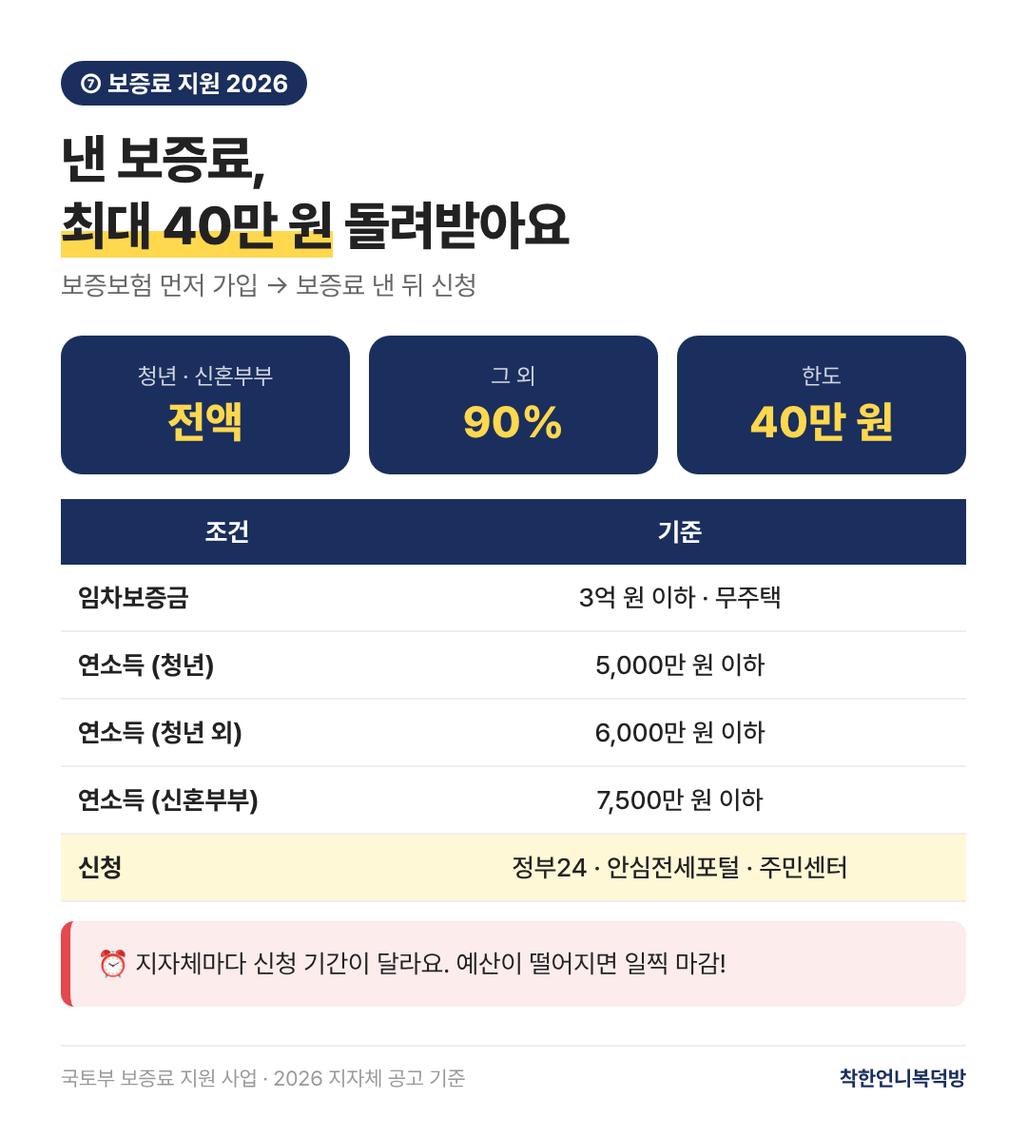
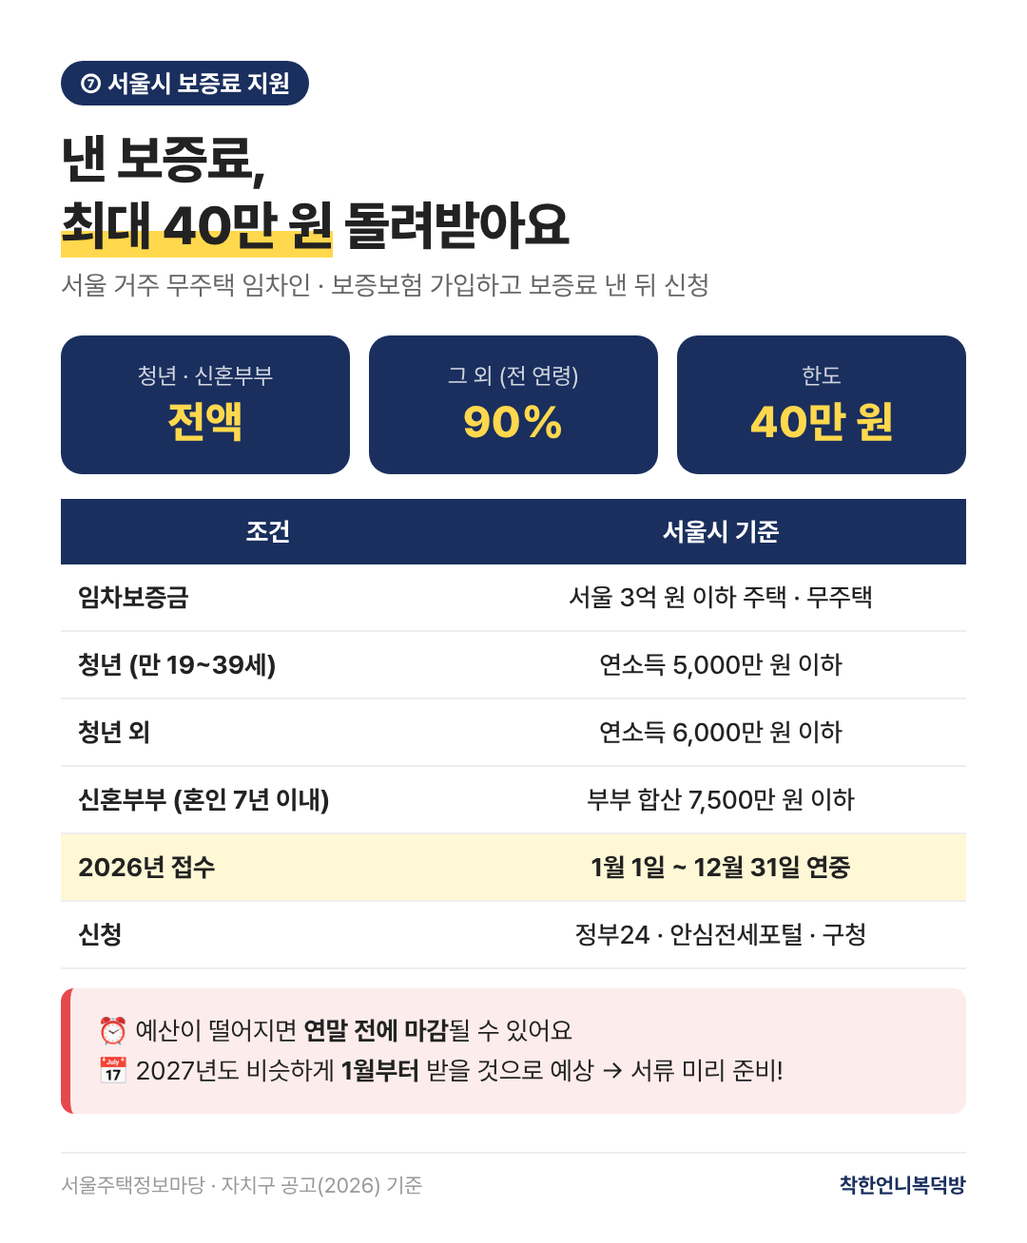
보증료 지원 서울시 기준·2027 예상 + 주택가격 순서 수도권 표시
Claude-Session: https://claude.ai/code/session_01TVq9M4GpnT2XRseWGn9WC1

diff --git a/naver/paste/2026-11-jeonse-check-8.html b/naver/paste/2026-11-jeonse-check-8.html
@@ -54,10 +54,11 @@ body{margin:0;background:#f4f4f2;font-family:-apple-system,"Apple SD Gothic Neo"
 <p style="text-align:center;font-size:16px;line-height:1.8;margin:0;font-family:'나눔바른고딕',NanumBarunGothic,'Apple SD Gothic Neo',sans-serif;">&nbsp;</p><table style="width:100%;border-collapse:collapse;margin:24px 0 12px;"><tr><td style="border-top:1px solid #e5e5e5;border-right:1px solid #e5e5e5;border-bottom:1px solid #e5e5e5;border-left:6px solid #555555;padding:10px 14px;font-size:19px;font-family:'나눔바른고딕',NanumBarunGothic,'Apple SD Gothic Neo',sans-serif;"><b>7. 보증보험 + 보증료 지원 (2026년에도 있어요)</b></td></tr></table>
 <p style="text-align:center;margin:12px 0 4px"><img src="img/jeonse-check/05-보증보험-가입조건.png" alt="전세보증금 반환보증 가입 조건 4가지 + 서류" style="max-width:100%;border:1px solid #ddd"></p><p style="text-align:center;font-size:13px;line-height:1.8;margin:0;font-family:'나눔바른고딕',NanumBarunGothic,'Apple SD Gothic Neo',sans-serif;color:#999999;">▲ 전세보증금 반환보증</p><p style="text-align:center;font-size:13px;line-height:1.8;margin:0;font-family:'나눔바른고딕',NanumBarunGothic,'Apple SD Gothic Neo',sans-serif;color:#999999;">가입 조건 4가지 + 서류</p><p style="text-align:center;font-size:16px;line-height:1.8;margin:0;font-family:'나눔바른고딕',NanumBarunGothic,'Apple SD Gothic Neo',sans-serif;">&nbsp;</p>
 <p style="text-align:center;font-size:16px;line-height:1.8;margin:0;font-family:'나눔바른고딕',NanumBarunGothic,'Apple SD Gothic Neo',sans-serif;">보증보험에 가입하고</p><p style="text-align:center;font-size:16px;line-height:1.8;margin:0;font-family:'나눔바른고딕',NanumBarunGothic,'Apple SD Gothic Neo',sans-serif;">보증료를 냈다면,</p><p style="text-align:center;font-size:16px;line-height:1.8;margin:0;font-family:'나눔바른고딕',NanumBarunGothic,'Apple SD Gothic Neo',sans-serif;"><b>보증료를 돌려받는</b></p><p style="text-align:center;font-size:16px;line-height:1.8;margin:0;font-family:'나눔바른고딕',NanumBarunGothic,'Apple SD Gothic Neo',sans-serif;"><b>지원</b>도 꼭 챙기세요.</p><p style="text-align:center;font-size:16px;line-height:1.8;margin:0;font-family:'나눔바른고딕',NanumBarunGothic,'Apple SD Gothic Neo',sans-serif;">&nbsp;</p>
-<p style="text-align:center;margin:12px 0 4px"><img src="img/jeonse-check/06-보증료지원-2026.png" alt="전세보증금반환보증 보증료 지원 2026 요약" style="max-width:100%;border:1px solid #ddd"></p><p style="text-align:center;font-size:13px;line-height:1.8;margin:0;font-family:'나눔바른고딕',NanumBarunGothic,'Apple SD Gothic Neo',sans-serif;color:#999999;">▲ 전세보증금반환보증 보증료 지원 2026 요약</p><p style="text-align:center;font-size:16px;line-height:1.8;margin:0;font-family:'나눔바른고딕',NanumBarunGothic,'Apple SD Gothic Neo',sans-serif;">&nbsp;</p>
-<p style="text-align:center;font-size:15px;line-height:1.8;margin:0;font-family:'나눔바른고딕',NanumBarunGothic,'Apple SD Gothic Neo',sans-serif;">지자체마다 신청 기간과</p><p style="text-align:center;font-size:15px;line-height:1.8;margin:0;font-family:'나눔바른고딕',NanumBarunGothic,'Apple SD Gothic Neo',sans-serif;">청년 나이 기준이 조금씩 달라요.</p><p style="text-align:center;font-size:16px;line-height:1.8;margin:0;font-family:'나눔바른고딕',NanumBarunGothic,'Apple SD Gothic Neo',sans-serif;">&nbsp;</p><p style="text-align:center;font-size:15px;line-height:1.8;margin:0;font-family:'나눔바른고딕',NanumBarunGothic,'Apple SD Gothic Neo',sans-serif;"><b>예산이 떨어지면 일찍 마감</b>되니</p><p style="text-align:center;font-size:15px;line-height:1.8;margin:0;font-family:'나눔바른고딕',NanumBarunGothic,'Apple SD Gothic Neo',sans-serif;">가입하자마자 신청하세요.</p><p style="text-align:center;font-size:16px;line-height:1.8;margin:0;font-family:'나눔바른고딕',NanumBarunGothic,'Apple SD Gothic Neo',sans-serif;">&nbsp;</p>
+<p style="text-align:center;margin:12px 0 4px"><img src="img/jeonse-check/06-보증료지원-2026.png" alt="서울시 전세보증금반환보증 보증료 지원 2026 요약" style="max-width:100%;border:1px solid #ddd"></p><p style="text-align:center;font-size:13px;line-height:1.8;margin:0;font-family:'나눔바른고딕',NanumBarunGothic,'Apple SD Gothic Neo',sans-serif;color:#999999;">▲ 서울시 전세보증금반환보증</p><p style="text-align:center;font-size:13px;line-height:1.8;margin:0;font-family:'나눔바른고딕',NanumBarunGothic,'Apple SD Gothic Neo',sans-serif;color:#999999;">보증료 지원 2026 요약</p><p style="text-align:center;font-size:16px;line-height:1.8;margin:0;font-family:'나눔바른고딕',NanumBarunGothic,'Apple SD Gothic Neo',sans-serif;">&nbsp;</p>
+<p style="text-align:center;font-size:16px;line-height:1.8;margin:0;font-family:'나눔바른고딕',NanumBarunGothic,'Apple SD Gothic Neo',sans-serif;">서울시는 2026년에 <b>1월 1일부터</b></p><p style="text-align:center;font-size:16px;line-height:1.8;margin:0;font-family:'나눔바른고딕',NanumBarunGothic,'Apple SD Gothic Neo',sans-serif;"><b>12월 31일까지 연중</b> 접수했어요.</p><p style="text-align:center;font-size:16px;line-height:1.8;margin:0;font-family:'나눔바른고딕',NanumBarunGothic,'Apple SD Gothic Neo',sans-serif;">&nbsp;</p><p style="text-align:center;font-size:16px;line-height:1.8;margin:0;font-family:'나눔바른고딕',NanumBarunGothic,'Apple SD Gothic Neo',sans-serif;">다만 <b>예산이 떨어지면</b></p><p style="text-align:center;font-size:16px;line-height:1.8;margin:0;font-family:'나눔바른고딕',NanumBarunGothic,'Apple SD Gothic Neo',sans-serif;"><b>일찍 마감</b>될 수 있어요.</p><p style="text-align:center;font-size:16px;line-height:1.8;margin:0;font-family:'나눔바른고딕',NanumBarunGothic,'Apple SD Gothic Neo',sans-serif;">&nbsp;</p><p style="text-align:center;font-size:16px;line-height:1.8;margin:0;font-family:'나눔바른고딕',NanumBarunGothic,'Apple SD Gothic Neo',sans-serif;">2024년 3월부터</p><p style="text-align:center;font-size:16px;line-height:1.8;margin:0;font-family:'나눔바른고딕',NanumBarunGothic,'Apple SD Gothic Neo',sans-serif;">계속 이어 온 사업이라</p><p style="text-align:center;font-size:16px;line-height:1.8;margin:0;font-family:'나눔바른고딕',NanumBarunGothic,'Apple SD Gothic Neo',sans-serif;"><b>2027년도 비슷하게 1월부터</b></p><p style="text-align:center;font-size:16px;line-height:1.8;margin:0;font-family:'나눔바른고딕',NanumBarunGothic,'Apple SD Gothic Neo',sans-serif;">받을 것으로 예상돼요.</p><p style="text-align:center;font-size:16px;line-height:1.8;margin:0;font-family:'나눔바른고딕',NanumBarunGothic,'Apple SD Gothic Neo',sans-serif;">&nbsp;</p><p style="text-align:center;font-size:16px;line-height:1.8;margin:0;font-family:'나눔바른고딕',NanumBarunGothic,'Apple SD Gothic Neo',sans-serif;">보증보험 가입하면</p><p style="text-align:center;font-size:16px;line-height:1.8;margin:0;font-family:'나눔바른고딕',NanumBarunGothic,'Apple SD Gothic Neo',sans-serif;">보증서·보증료 영수증을</p><p style="text-align:center;font-size:16px;line-height:1.8;margin:0;font-family:'나눔바른고딕',NanumBarunGothic,'Apple SD Gothic Neo',sans-serif;">바로 챙겨 두세요.</p><p style="text-align:center;font-size:16px;line-height:1.8;margin:0;font-family:'나눔바른고딕',NanumBarunGothic,'Apple SD Gothic Neo',sans-serif;">&nbsp;</p>
+<p style="text-align:center;font-size:15px;line-height:1.8;margin:0;font-family:'나눔바른고딕',NanumBarunGothic,'Apple SD Gothic Neo',sans-serif;"><b><span style="color:#7b4fd6">✔</span></b> 서울 거주 무주택 ·</p><p style="text-align:center;font-size:15px;line-height:1.8;margin:0;font-family:'나눔바른고딕',NanumBarunGothic,'Apple SD Gothic Neo',sans-serif;">보증금 3억 이하 · 청년 만</p><p style="text-align:center;font-size:15px;line-height:1.8;margin:0;font-family:'나눔바른고딕',NanumBarunGothic,'Apple SD Gothic Neo',sans-serif;">19~39세 · 신혼부부 혼인 7년 이내</p><p style="text-align:center;font-size:16px;line-height:1.8;margin:0;font-family:'나눔바른고딕',NanumBarunGothic,'Apple SD Gothic Neo',sans-serif;">&nbsp;</p><p style="text-align:center;font-size:15px;line-height:1.8;margin:0;font-family:'나눔바른고딕',NanumBarunGothic,'Apple SD Gothic Neo',sans-serif;"><b><span style="color:#7b4fd6">✔</span></b> 한도 40만 원은</p><p style="text-align:center;font-size:15px;line-height:1.8;margin:0;font-family:'나눔바른고딕',NanumBarunGothic,'Apple SD Gothic Neo',sans-serif;">2025.3.31 이후 보증</p><p style="text-align:center;font-size:15px;line-height:1.8;margin:0;font-family:'나눔바른고딕',NanumBarunGothic,'Apple SD Gothic Neo',sans-serif;">가입자부터 (그 전 가입자는 최대 30만 원)</p><p style="text-align:center;font-size:16px;line-height:1.8;margin:0;font-family:'나눔바른고딕',NanumBarunGothic,'Apple SD Gothic Neo',sans-serif;">&nbsp;</p><p style="text-align:center;font-size:15px;line-height:1.8;margin:0;font-family:'나눔바른고딕',NanumBarunGothic,'Apple SD Gothic Neo',sans-serif;"><b><span style="color:#7b4fd6">✔</span></b> 자세한 기준:</p><p style="text-align:center;font-size:15px;line-height:1.8;margin:0;font-family:'나눔바른고딕',NanumBarunGothic,'Apple SD Gothic Neo',sans-serif;">서울주택정보마당 · 다산콜센터 120</p><p style="text-align:center;font-size:16px;line-height:1.8;margin:0;font-family:'나눔바른고딕',NanumBarunGothic,'Apple SD Gothic Neo',sans-serif;">&nbsp;</p>
 <p style="text-align:center;font-size:16px;line-height:1.8;margin:0;font-family:'나눔바른고딕',NanumBarunGothic,'Apple SD Gothic Neo',sans-serif;">보증 가입할 때</p><p style="text-align:center;font-size:16px;line-height:1.8;margin:0;font-family:'나눔바른고딕',NanumBarunGothic,'Apple SD Gothic Neo',sans-serif;">집값은 아래 순서대로 정해져요.</p><p style="text-align:center;font-size:16px;line-height:1.8;margin:0;font-family:'나눔바른고딕',NanumBarunGothic,'Apple SD Gothic Neo',sans-serif;">&nbsp;</p><p style="text-align:center;font-size:16px;line-height:1.8;margin:0;font-family:'나눔바른고딕',NanumBarunGothic,'Apple SD Gothic Neo',sans-serif;">빌라는 <b>공시가격</b>이 먼저라,</p><p style="text-align:center;font-size:16px;line-height:1.8;margin:0;font-family:'나눔바른고딕',NanumBarunGothic,'Apple SD Gothic Neo',sans-serif;">공시가격부터 확인해 두면 좋아요.</p><p style="text-align:center;font-size:16px;line-height:1.8;margin:0;font-family:'나눔바른고딕',NanumBarunGothic,'Apple SD Gothic Neo',sans-serif;">&nbsp;</p>
-<p style="text-align:center;margin:12px 0 4px"><img src="img/jeonse-check/07-주택가격-적용순서.png" alt="보증 가입 시 주택가격 적용 순서 (안심전세 앱 기준)" style="max-width:100%;border:1px solid #ddd"></p><p style="text-align:center;font-size:13px;line-height:1.8;margin:0;font-family:'나눔바른고딕',NanumBarunGothic,'Apple SD Gothic Neo',sans-serif;color:#999999;">▲ 보증 가입 시 주택가격</p><p style="text-align:center;font-size:13px;line-height:1.8;margin:0;font-family:'나눔바른고딕',NanumBarunGothic,'Apple SD Gothic Neo',sans-serif;color:#999999;">적용 순서 (안심전세 앱 기준)</p><p style="text-align:center;font-size:16px;line-height:1.8;margin:0;font-family:'나눔바른고딕',NanumBarunGothic,'Apple SD Gothic Neo',sans-serif;">&nbsp;</p>
+<p style="text-align:center;margin:12px 0 4px"><img src="img/jeonse-check/07-주택가격-적용순서.png" alt="보증 가입 시 주택가격 적용 순서 (안심전세 앱 수도권 기준)" style="max-width:100%;border:1px solid #ddd"></p><p style="text-align:center;font-size:13px;line-height:1.8;margin:0;font-family:'나눔바른고딕',NanumBarunGothic,'Apple SD Gothic Neo',sans-serif;color:#999999;">▲ 보증 가입 시 주택가격 적용</p><p style="text-align:center;font-size:13px;line-height:1.8;margin:0;font-family:'나눔바른고딕',NanumBarunGothic,'Apple SD Gothic Neo',sans-serif;color:#999999;">순서 (안심전세 앱 수도권 기준)</p><p style="text-align:center;font-size:16px;line-height:1.8;margin:0;font-family:'나눔바른고딕',NanumBarunGothic,'Apple SD Gothic Neo',sans-serif;">&nbsp;</p>
 <p style="text-align:center;margin:12px 0 4px"><img src="img/jeonse-check/08-최우선변제금.png" alt="최우선변제금 — 경매가 나도 먼저 받는 금액" style="max-width:100%;border:1px solid #ddd"></p><p style="text-align:center;font-size:13px;line-height:1.8;margin:0;font-family:'나눔바른고딕',NanumBarunGothic,'Apple SD Gothic Neo',sans-serif;color:#999999;">▲ 최우선변제금 — 경매가 나도 먼저 받는 금액</p><p style="text-align:center;font-size:16px;line-height:1.8;margin:0;font-family:'나눔바른고딕',NanumBarunGothic,'Apple SD Gothic Neo',sans-serif;">&nbsp;</p>
 <p style="text-align:center;font-size:16px;line-height:1.8;margin:0;font-family:'나눔바른고딕',NanumBarunGothic,'Apple SD Gothic Neo',sans-serif;">&nbsp;</p><table style="width:100%;border-collapse:collapse;margin:24px 0 12px;"><tr><td style="border-top:1px solid #e5e5e5;border-right:1px solid #e5e5e5;border-bottom:1px solid #e5e5e5;border-left:6px solid #555555;padding:10px 14px;font-size:19px;font-family:'나눔바른고딕',NanumBarunGothic,'Apple SD Gothic Neo',sans-serif;"><b>8. 입주 날, 짐 넣기 전에 빈집 사진</b></td></tr></table>
 <p style="text-align:center;font-size:16px;line-height:1.8;margin:0;font-family:'나눔바른고딕',NanumBarunGothic,'Apple SD Gothic Neo',sans-serif;">벽·바닥·창틀·욕실을</p><p style="text-align:center;font-size:16px;line-height:1.8;margin:0;font-family:'나눔바른고딕',NanumBarunGothic,'Apple SD Gothic Neo',sans-serif;"><b>날짜 나오게</b> 찍어 두세요.</p><p style="text-align:center;font-size:16px;line-height:1.8;margin:0;font-family:'나눔바른고딕',NanumBarunGothic,'Apple SD Gothic Neo',sans-serif;">&nbsp;</p><p style="text-align:center;font-size:16px;line-height:1.8;margin:0;font-family:'나눔바른고딕',NanumBarunGothic,'Apple SD Gothic Neo',sans-serif;">나갈 때 원상복구 다툼이</p><p style="text-align:center;font-size:16px;line-height:1.8;margin:0;font-family:'나눔바른고딕',NanumBarunGothic,'Apple SD Gothic Neo',sans-serif;">생기면 이게 증거예요.</p><p style="text-align:center;font-size:16px;line-height:1.8;margin:0;font-family:'나눔바른고딕',NanumBarunGothic,'Apple SD Gothic Neo',sans-serif;">&nbsp;</p>
@@ -76,7 +77,7 @@ body{margin:0;background:#f4f4f2;font-family:-apple-system,"Apple SD Gothic Neo"
 <li>⑤ 맨 아래 법정 표시는 「내 템플릿」에 저장해 둔 서명과 같아요 — 템플릿을 썼다면 이 부분은 지워도 돼요</li>
 </ul></div>
 <div class="card"><h3>인용구로 바꿀 문장</h3><ul><li><span class="qk">인용구 · 기본</span> 한 줄 요약 시세 → 집주인 조회 → 등기 알림 → 신고·확정일자 → 밀린 세금 → 평일 전입 → 보증보험 → 빈집 사진 <button class="mini" data-t="한 줄 요약 시세 → 집주인 조회 → 등기 알림 → 신고·확정일자 → 밀린 세금 → 평일 전입 → 보증보험 → 빈집 사진">문장 복사</button></li></ul></div>
-<div class="card"><h3>이미지 내려받기 (직접 업로드)</h3><ul><li><a href="img/jeonse-check/00-한눈에-8가지.png" download>전세 계약할 때 그냥 넘기기 쉬운 8가지 한눈에 보기</a></li><li><a href="img/jeonse-check/01-시세조회-따라하기.png" download>안심전세 앱 시세조회&amp;위험성진단 따라 하기</a></li><li><a href="img/jeonse-check/02-위험성진단-읽는법.png" download>위험성 진단 읽는 법 (숫자는 예시)</a></li><li><a href="img/jeonse-check/03-집주인조회.png" download>안심임대인 조회 — 동의 불필요 vs 동의 필요</a></li><li><a href="img/jeonse-check/04-등기변동알림.png" download>등기 변동 알림 — 안심전세 앱 vs 인터넷등기소</a></li><li><a href="img/jeonse-check/05-보증보험-가입조건.png" download>전세보증금 반환보증 가입 조건 4가지 + 서류</a></li><li><a href="img/jeonse-check/06-보증료지원-2026.png" download>전세보증금반환보증 보증료 지원 2026 요약</a></li><li><a href="img/jeonse-check/07-주택가격-적용순서.png" download>보증 가입 시 주택가격 적용 순서 (안심전세 앱 기준)</a></li><li><a href="img/jeonse-check/08-최우선변제금.png" download>최우선변제금 — 경매가 나도 먼저 받는 금액</a></li></ul></div>
+<div class="card"><h3>이미지 내려받기 (직접 업로드)</h3><ul><li><a href="img/jeonse-check/00-한눈에-8가지.png" download>전세 계약할 때 그냥 넘기기 쉬운 8가지 한눈에 보기</a></li><li><a href="img/jeonse-check/01-시세조회-따라하기.png" download>안심전세 앱 시세조회&amp;위험성진단 따라 하기</a></li><li><a href="img/jeonse-check/02-위험성진단-읽는법.png" download>위험성 진단 읽는 법 (숫자는 예시)</a></li><li><a href="img/jeonse-check/03-집주인조회.png" download>안심임대인 조회 — 동의 불필요 vs 동의 필요</a></li><li><a href="img/jeonse-check/04-등기변동알림.png" download>등기 변동 알림 — 안심전세 앱 vs 인터넷등기소</a></li><li><a href="img/jeonse-check/05-보증보험-가입조건.png" download>전세보증금 반환보증 가입 조건 4가지 + 서류</a></li><li><a href="img/jeonse-check/06-보증료지원-2026.png" download>서울시 전세보증금반환보증 보증료 지원 2026 요약</a></li><li><a href="img/jeonse-check/07-주택가격-적용순서.png" download>보증 가입 시 주택가격 적용 순서 (안심전세 앱 수도권 기준)</a></li><li><a href="img/jeonse-check/08-최우선변제금.png" download>최우선변제금 — 경매가 나도 먼저 받는 금액</a></li></ul></div>
 <div class="card"><h3>발행 정보</h3><ul><li><b>제목(BEST)</b>: 전세 계약할 때 99%가 그냥 넘기는 것 8가지｜안심전세 앱 따라 하기 (집주인 조회·보증료 지원 2026)</li><li><b>제목(대안)</b>: 전세 계약 전 체크리스트 2026｜등기부에 안 나오는 집주인 세금·보증사고 확인하는 법</li><li><b>태그</b>: 전세계약체크리스트, 안심전세앱, 임대인조회, 안심임대인조회, 미납국세열람, 전세보증보험, 보증료지원, 전월세신고, 확정일자, 최우선변제금, 신촌부동산, 이대부동산, 신촌공인중개사, 서대문부동산, 착한언니복덕방</li><li><b>썸네일</b>: 00-한눈에-8가지.png 또는 「전세 계약할 때 99%가 그냥 넘기는 것」</li><li><b>연계</b>: 인스타 릴스 g5 「전세 계약할 때 99%가 그냥 넘기는 것」 게시 후 1~2일 안에 발행 · 노션 자료와 같은 내용</li></ul></div>
 <div class="card" style="font-size:12px;color:#777">출처: 안심전세 앱(HUG) 이용 안내 화면(2026.11 캡처) · 국세청 홈택스 미납국세 열람 안내 · 정부24 전세보증금반환보증 보증료 지원 · 주택임대차보호법 제3조·시행령 제10·11조 · 작성 규칙 MASTER v1.2</div>
 </div></div>

diff --git a/instagram/reels/inserts-2026-11-24/photos/hug/info/make.html b/instagram/reels/inserts-2026-11-24/photos/hug/info/make.html
@@ -155,31 +155,32 @@ tr.hl td{background:#fff8d6}
 
 <!-- 6 보증료 지원 -->
 <div class="card" id="i6">
-<span class="tag">⑦ 보증료 지원 2026</span>
+<span class="tag">⑦ 서울시 보증료 지원</span>
 <h1>낸 보증료,<br><em>최대 40만 원</em> 돌려받아요</h1>
-<p class="sub">보증보험 먼저 가입 → 보증료 낸 뒤 신청</p>
+<p class="sub">서울 거주 무주택 임차인 · 보증보험 가입하고 보증료 낸 뒤 신청</p>
 <div class="big">
 <div class="bx"><div class="k">청년 · 신혼부부</div><div class="v">전액</div></div>
-<div class="bx"><div class="k">그 외</div><div class="v">90%</div></div>
+<div class="bx"><div class="k">그 외 (전 연령)</div><div class="v">90%</div></div>
 <div class="bx"><div class="k">한도</div><div class="v">40만 원</div></div>
 </div>
 <table>
-<tr><th>조건</th><th>기준</th></tr>
-<tr><td>임차보증금</td><td>3억 원 이하 · 무주택</td></tr>
-<tr><td>연소득 (청년)</td><td>5,000만 원 이하</td></tr>
-<tr><td>연소득 (청년 외)</td><td>6,000만 원 이하</td></tr>
-<tr><td>연소득 (신혼부부)</td><td>7,500만 원 이하</td></tr>
-<tr class="hl"><td>신청</td><td>정부24 · 안심전세포털 · 주민센터</td></tr>
+<tr><th>조건</th><th>서울시 기준</th></tr>
+<tr><td>임차보증금</td><td>서울 3억 원 이하 주택 · 무주택</td></tr>
+<tr><td>청년 (만 19~39세)</td><td>연소득 5,000만 원 이하</td></tr>
+<tr><td>청년 외</td><td>연소득 6,000만 원 이하</td></tr>
+<tr><td>신혼부부 (혼인 7년 이내)</td><td>부부 합산 7,500만 원 이하</td></tr>
+<tr class="hl"><td>2026년 접수</td><td><b>1월 1일 ~ 12월 31일 연중</b></td></tr>
+<tr><td>신청</td><td>정부24 · 안심전세포털 · 구청</td></tr>
 </table>
-<div class="warn">⏰ 지자체마다 신청 기간이 달라요. 예산이 떨어지면 일찍 마감!</div>
-<div class="foot"><span>국토부 보증료 지원 사업 · 2026 지자체 공고 기준</span><b>착한언니복덕방</b></div>
+<div class="warn">⏰ 예산이 떨어지면 <b>연말 전에 마감</b>될 수 있어요<br>📅 2027년도 비슷하게 <b>1월부터</b> 받을 것으로 예상 → 서류 미리 준비!</div>
+<div class="foot"><span>서울주택정보마당 · 자치구 공고(2026) 기준</span><b>착한언니복덕방</b></div>
 </div>
 
 <!-- 7 주택가격 순서 -->
 <div class="card" id="i7">
-<span class="tag">⑦ 보증 가입 집값 기준</span>
+<span class="tag">⑦ 보증 가입 집값 기준 · 수도권</span>
 <h1>보증보험은 집값을<br><em>이 순서</em>로 정해요</h1>
-<p class="sub">위에서부터 있는 값을 먼저 써요 · 감정평가는 우선 적용 가능</p>
+<p class="sub"><b>수도권 기준</b> · 위에서부터 있는 값을 먼저 써요 · 감정평가는 우선 적용 가능</p>
 <div class="order">
 <div class="col"><h3>🏢 아파트·오피스텔</h3><div class="ol">
 <div class="oi first"><i>1</i>KB시세·부동산테크시세</div>
@@ -202,7 +203,7 @@ tr.hl td{background:#fff8d6}
 <div class="oi"><i>4</i>감정평가금액</div></div></div>
 </div>
 <div class="tip">💡 아파트 최저층·오피스텔은 KB <b>하위평균가</b>를 적용해요<br>💡 빌라는 공시가격 기준이라, 공시가격부터 꼭 확인하세요</div>
-<div class="foot"><span>안심전세 앱 「주택가격은 얼마인가요?」 기준</span><b>착한언니복덕방</b></div>
+<div class="foot"><span>안심전세 앱 「주택가격은 얼마인가요?」 수도권 화면 기준</span><b>착한언니복덕방</b></div>
 </div>
 
 <!-- 8 최우선변제 -->

diff --git a/tools/blog_paste.py b/tools/blog_paste.py
@@ -2944,10 +2944,15 @@ def jeonse_check():
     a.head(7, "보증보험 + 보증료 지원 (2026년에도 있어요)")
     a.image(I + "05-보증보험-가입조건.png", "전세보증금 반환보증 가입 조건 4가지 + 서류")
     a.text("보증보험에 가입하고 보증료를 냈다면, **보증료를 돌려받는 지원**도 꼭 챙기세요.")
-    a.image(I + "06-보증료지원-2026.png", "전세보증금반환보증 보증료 지원 2026 요약")
-    a.text("지자체마다 신청 기간과 청년 나이 기준이 조금씩 달라요.", "**예산이 떨어지면 일찍 마감**되니 가입하자마자 신청하세요.", size=15)
+    a.image(I + "06-보증료지원-2026.png", "서울시 전세보증금반환보증 보증료 지원 2026 요약")
+    a.text("서울시는 2026년에 **1월 1일부터 12월 31일까지 연중** 접수했어요.", "다만 **예산이 떨어지면 일찍 마감**될 수 있어요.",
+           "2024년 3월부터 계속 이어 온 사업이라 **2027년도 비슷하게 1월부터** 받을 것으로 예상돼요.",
+           "보증보험 가입하면 보증서·보증료 영수증을 바로 챙겨 두세요.")
+    a.text("✔ 서울 거주 무주택 · 보증금 3억 이하 · 청년 만 19~39세 · 신혼부부 혼인 7년 이내",
+           "✔ 한도 40만 원은 2025.3.31 이후 보증 가입자부터 (그 전 가입자는 최대 30만 원)",
+           "✔ 자세한 기준: 서울주택정보마당 · 다산콜센터 120", size=15)
     a.text("보증 가입할 때 집값은 아래 순서대로 정해져요.", "빌라는 **공시가격**이 먼저라, 공시가격부터 확인해 두면 좋아요.")
-    a.image(I + "07-주택가격-적용순서.png", "보증 가입 시 주택가격 적용 순서 (안심전세 앱 기준)")
+    a.image(I + "07-주택가격-적용순서.png", "보증 가입 시 주택가격 적용 순서 (안심전세 앱 수도권 기준)")
     a.image(I + "08-최우선변제금.png", "최우선변제금 — 경매가 나도 먼저 받는 금액")
 
     a.head(8, "입주 날, 짐 넣기 전에 빈집 사진")
